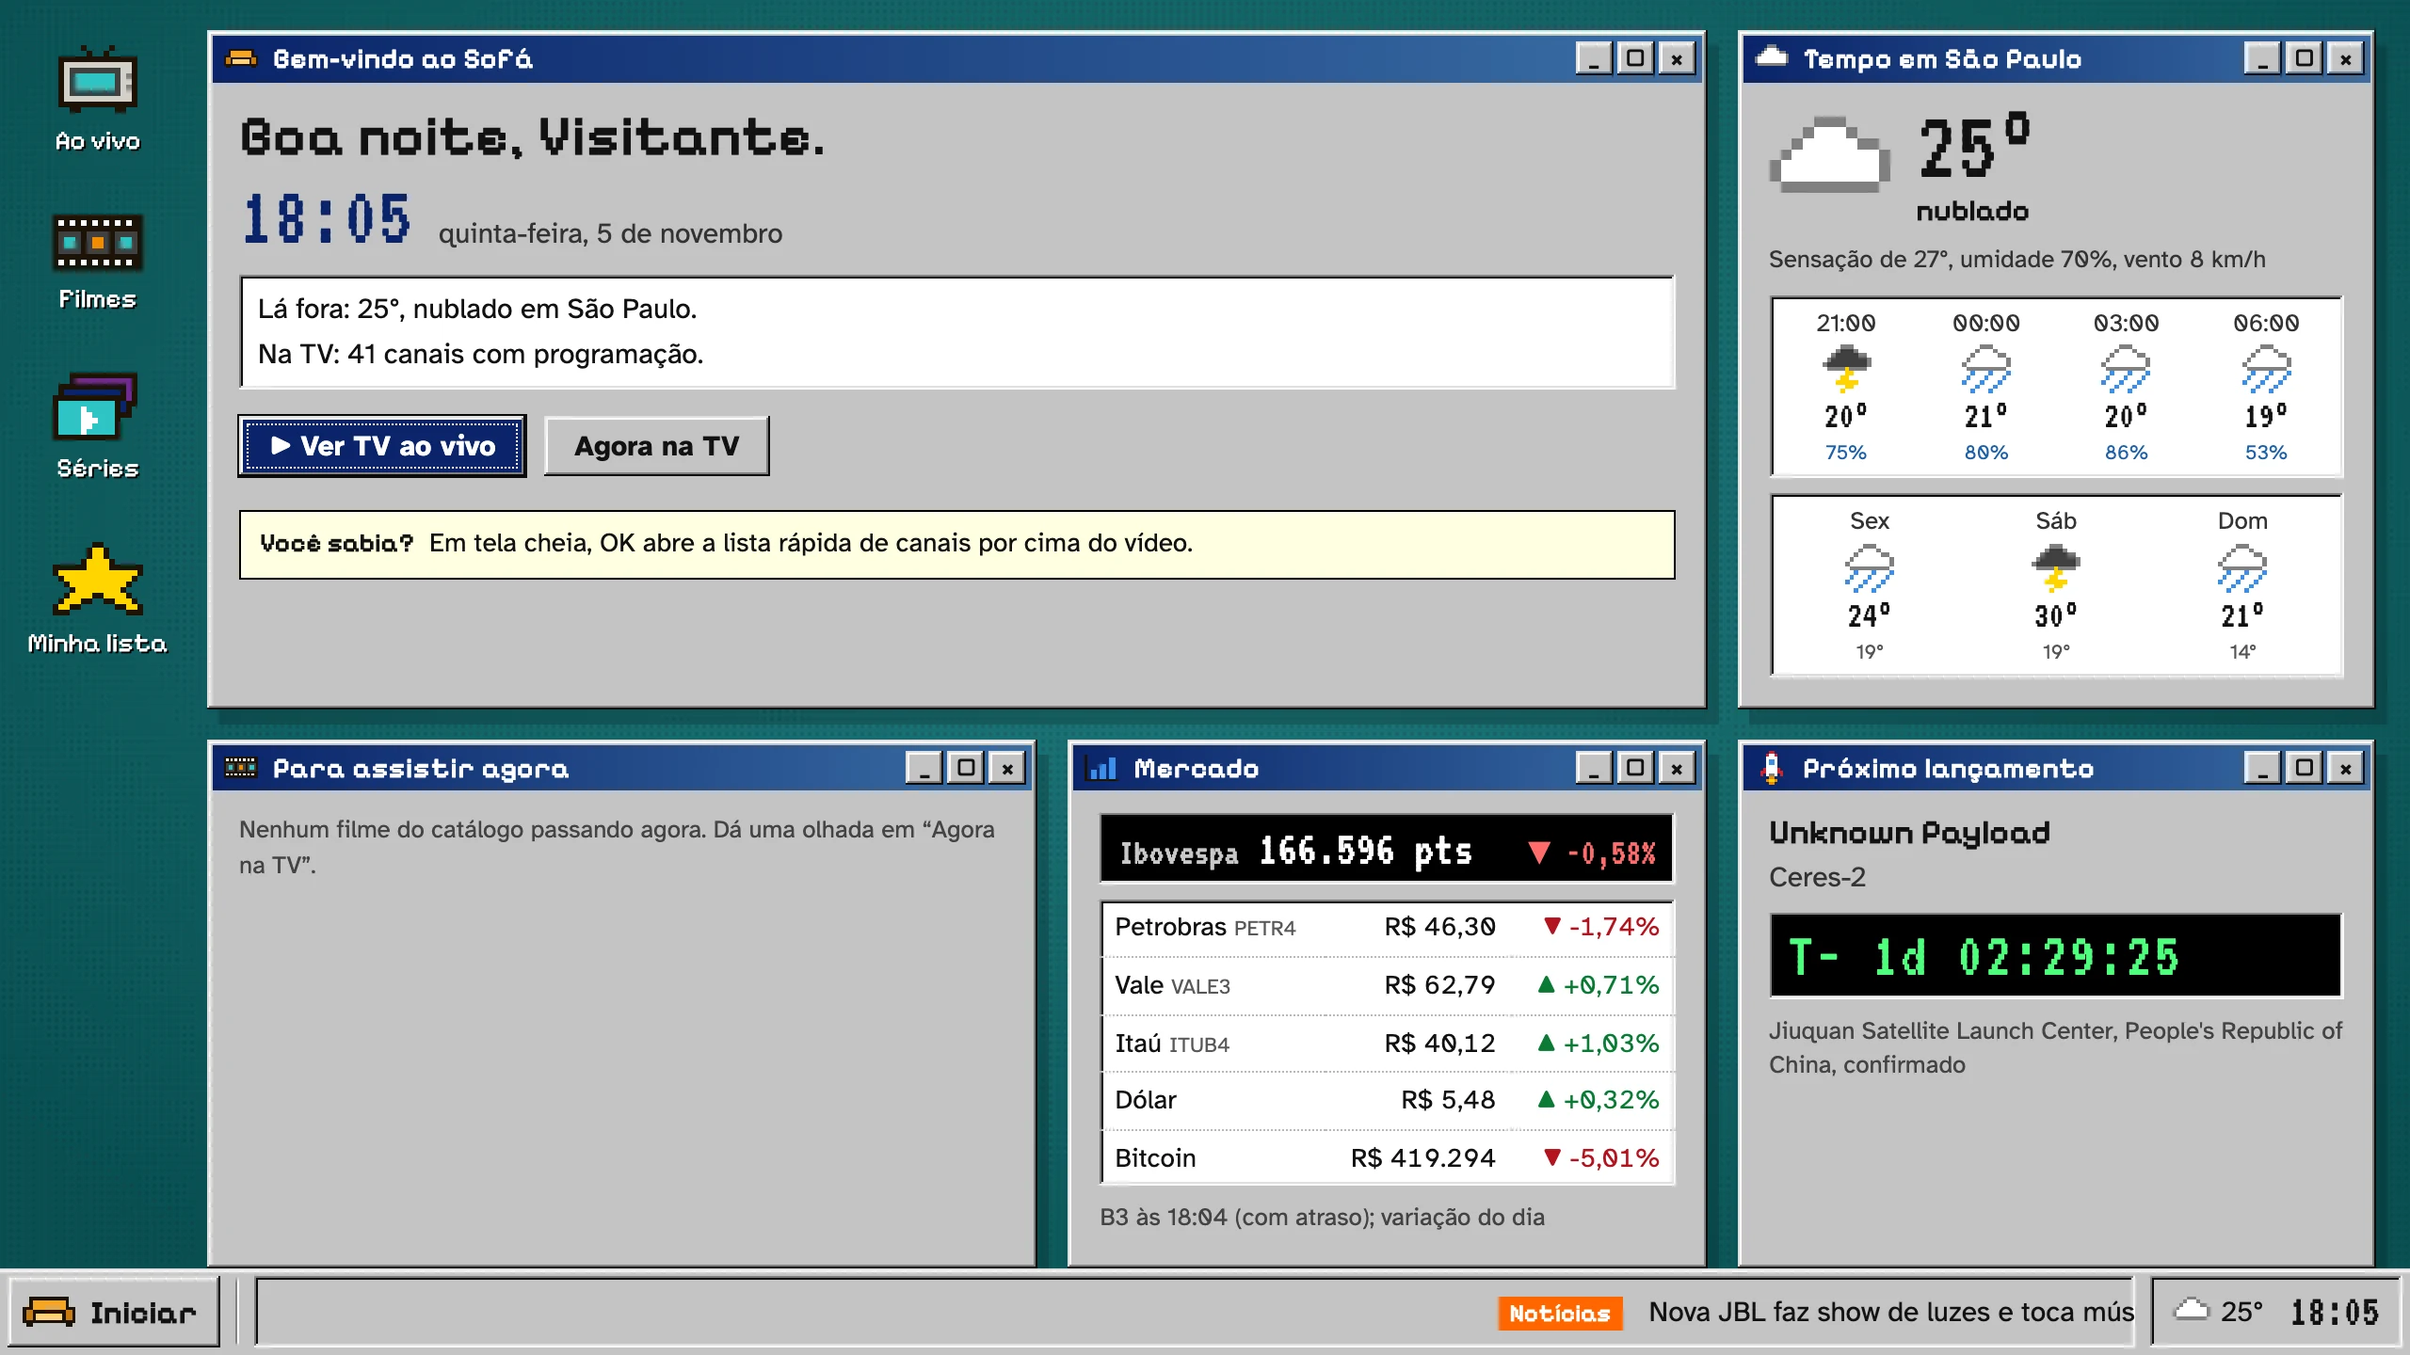
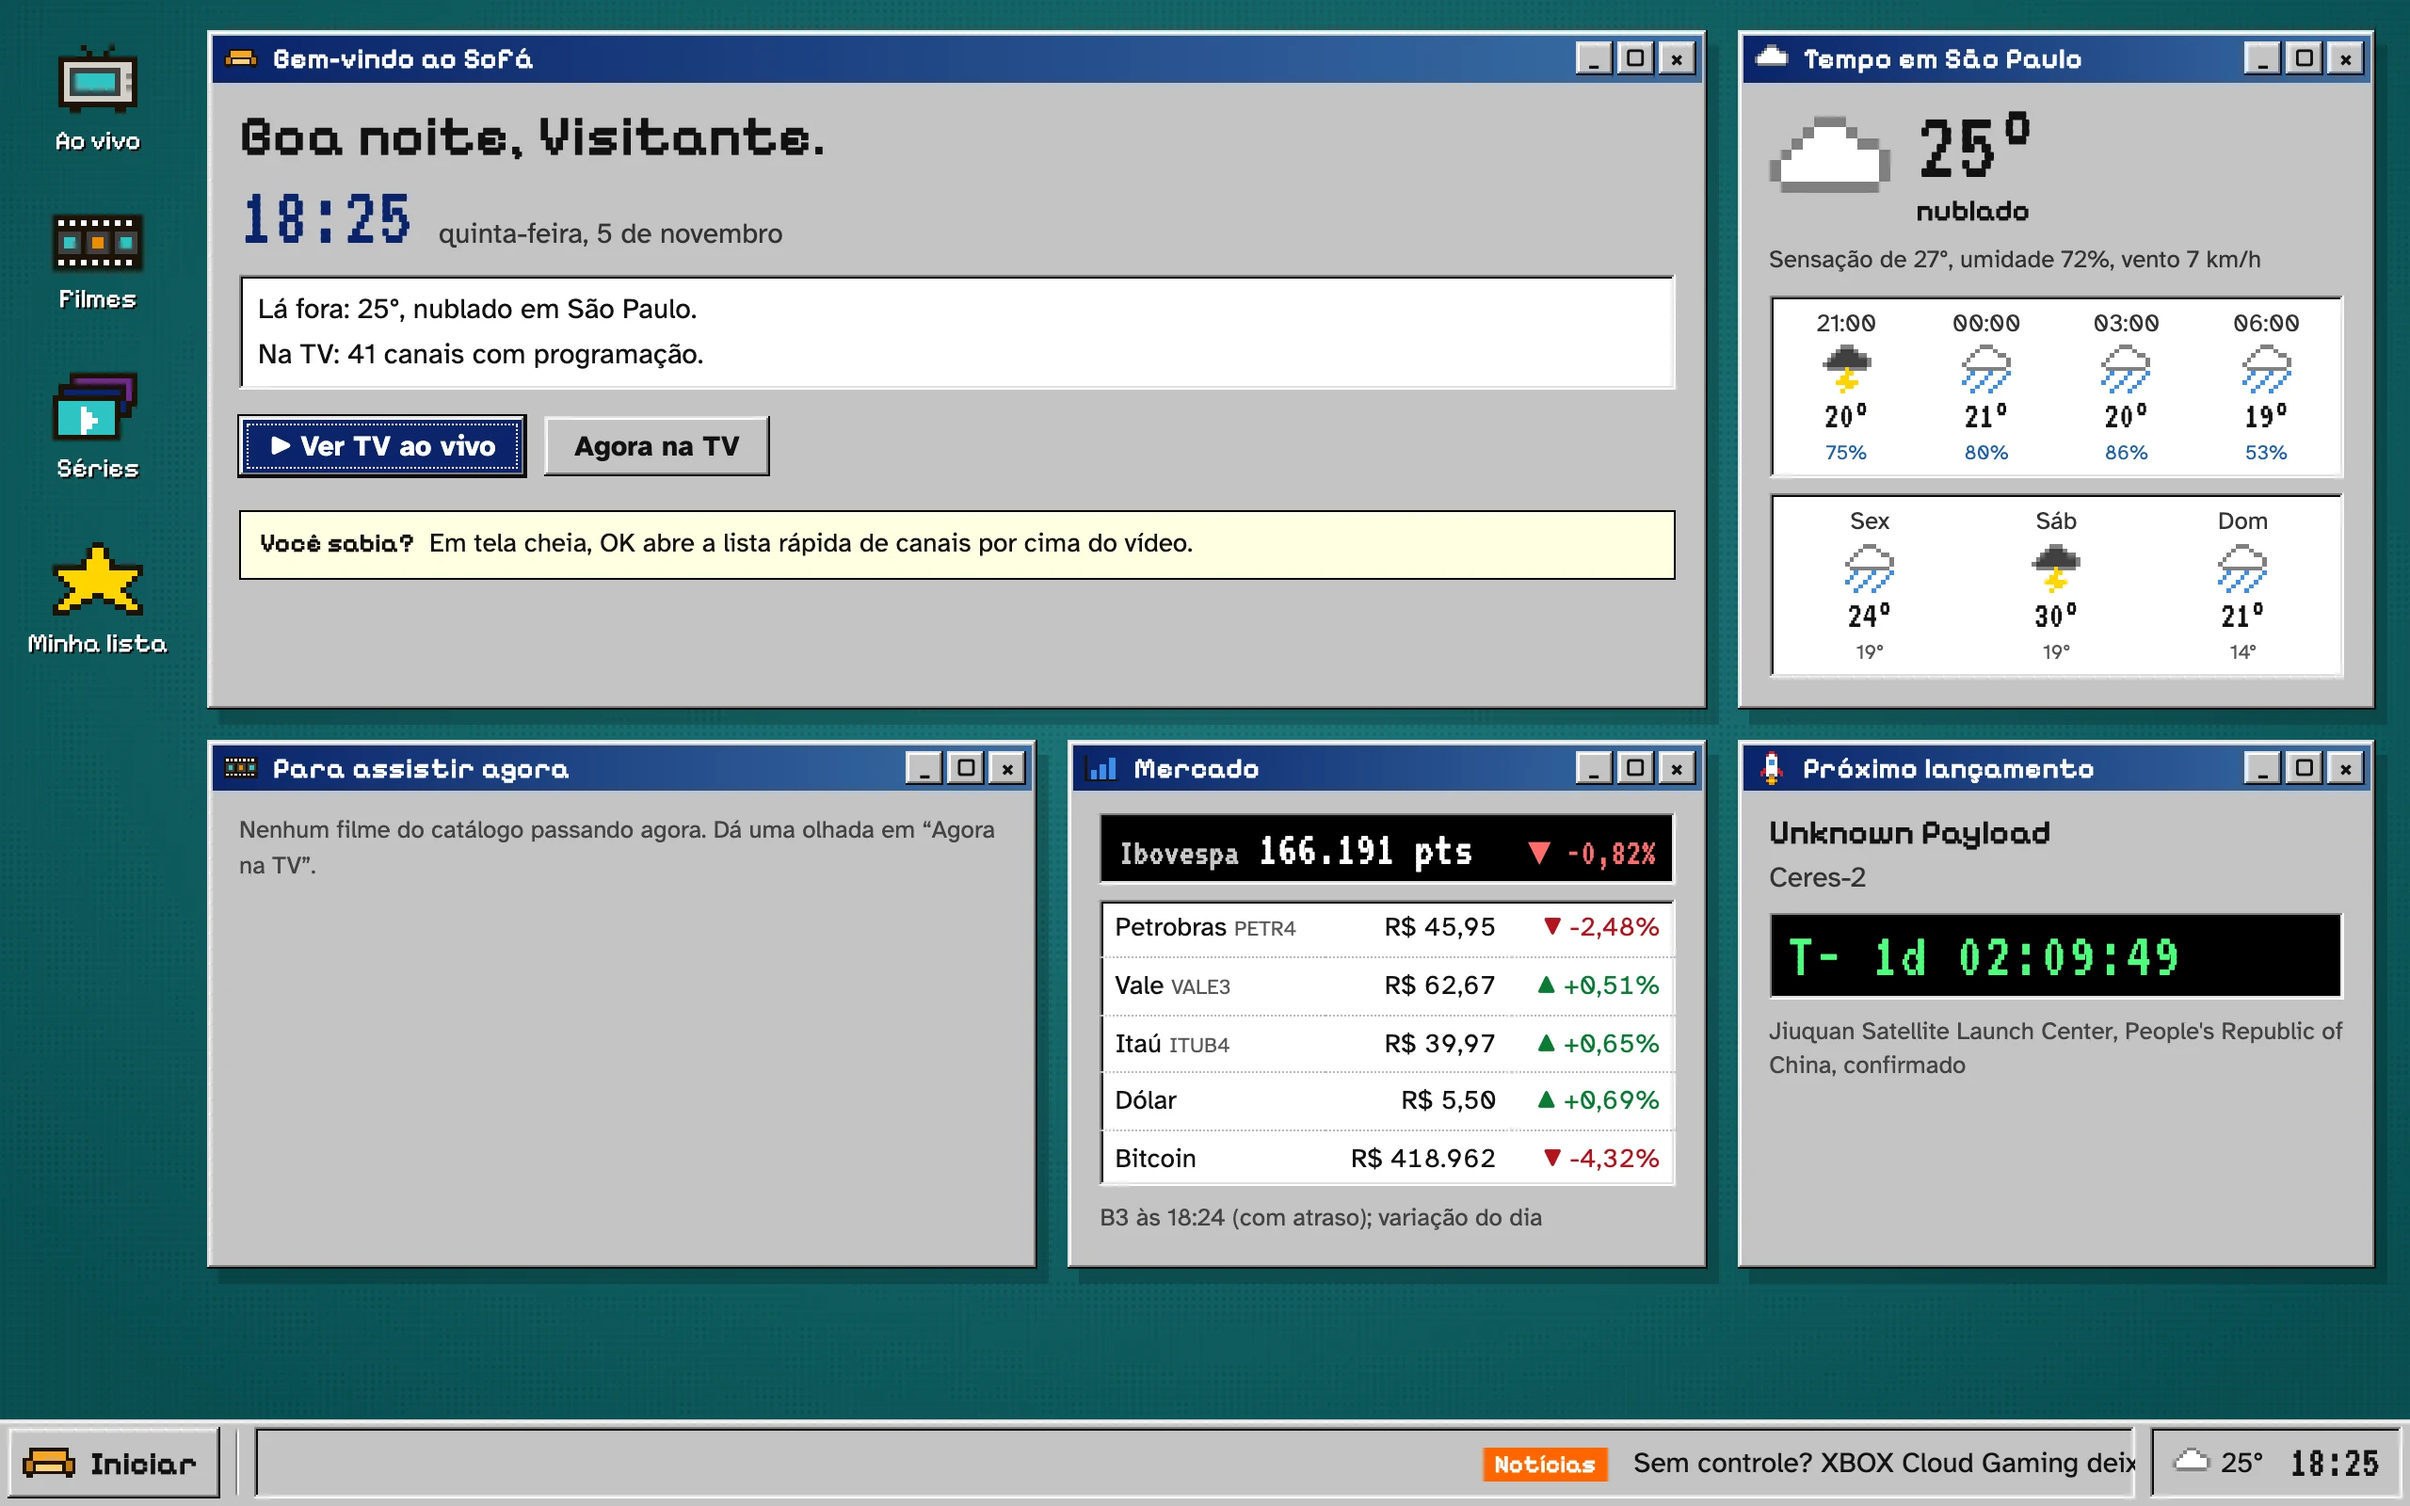
docs: Início do tema moderno no README, ao lado do retrô

diff --git a/README.md b/README.md
@@ -5,8 +5,8 @@ Um player de listas IPTV para a sua casa. Ele roda num computador que fica ligad
 ![A TV ao vivo no tema moderno: categorias, o que está passando em cada canal, o vídeo e a programação](docs/ao-vivo-moderno.webp)
 
 <p>
-  <img src="docs/inicio-retro.webp" width="49%" alt="O início no tema retrô: bem-vindo, tempo, mercado e o próximo lançamento de foguete">
-  <img src="docs/ao-vivo-retro.webp" width="49%" alt="A TV ao vivo no tema retrô, com janelas e barra de tarefas">
+  <img src="docs/inicio-moderno.webp" width="49%" alt="O início no tema moderno: bem-vindo, tempo, mercado e o próximo lançamento de foguete">
+  <img src="docs/inicio-retro.webp" width="49%" alt="O mesmo início no tema retrô, com janelas e barra de tarefas">
 </p>
 
 Prints feitos com a lista de canais abertos que já vem no Sofá.
@@ -169,6 +169,8 @@ No celular, é só tocar.
 ## Temas e entrada
 
 Troque o tema pelo botão **Tema retrô / Tema moderno**, em cima, ou pelo menu Iniciar do tema retrô. Cada aparelho guarda o seu.
+
+![A TV ao vivo no tema retrô: pastas de categorias, canais numerados, o vídeo e a programação](docs/ao-vivo-retro.webp)
 
 A entrada (a tela de abertura com os números do dia) aparece na primeira vez do dia em cada aparelho. Qualquer tecla ou toque pula. O som da entrada liga e desliga no menu Iniciar do tema retrô. O navegador pode não deixar tocar som antes de você apertar alguma coisa: nesse caso a entrada fica muda, e "Reiniciar o Sofá", no menu Iniciar, toca normalmente.
 
